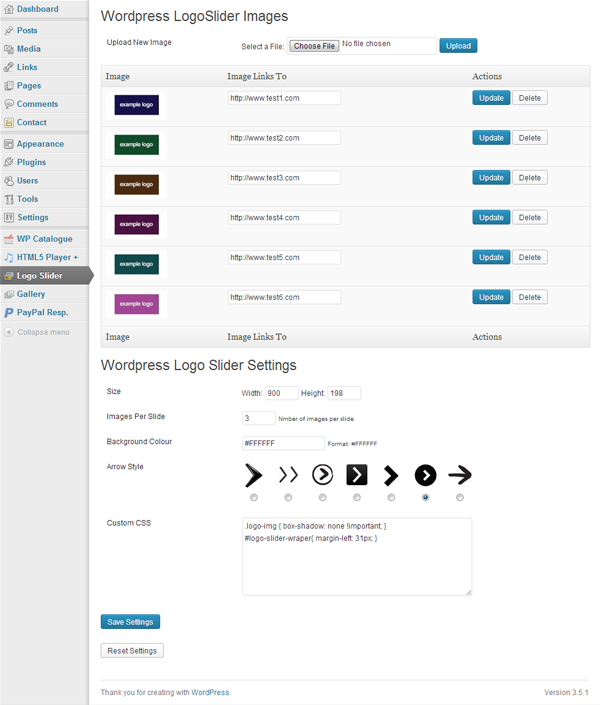
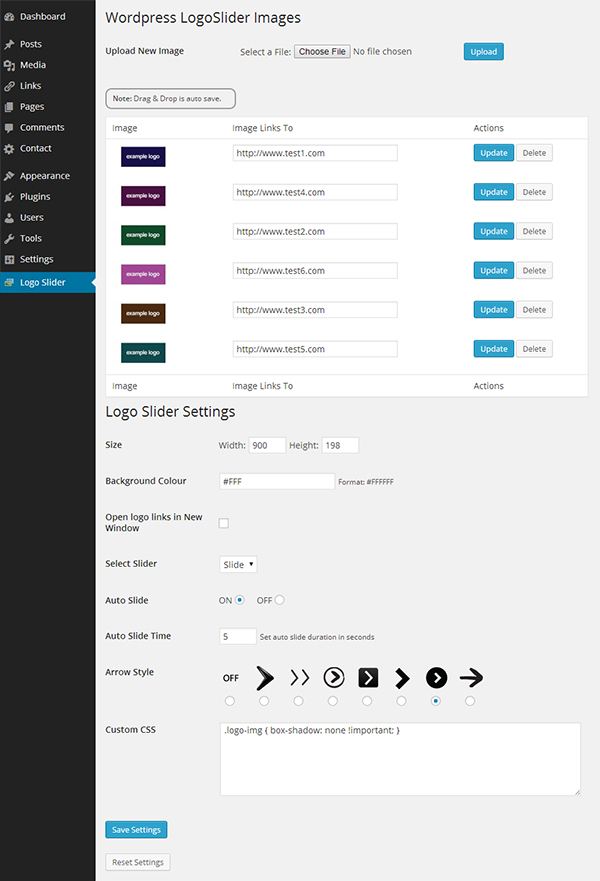
Updating screenshot-2.jpg
git-svn-id: https://plugins.svn.wordpress.org/logo-slider/trunk@870401 b8457f37-d9ea-0310-8a92-e5e31aec5664

diff --git a/logo-slider.php b/logo-slider.php
@@ -271,7 +271,7 @@ function wp_logo_images_admin() { ?>
 	</table><br />
 	
 	<p style="border:2px solid #999; border-radius: 10px; font-size: 12px; padding: 6px 10px; width: 24%;">
-    	<strong>Note: </strong>Drag &amp; Drop is auto save.
+    	<strong>Note: </strong>Drag &amp; Drop to reorder slides.
   	</p>
     
 	<?php if(!empty($wp_logo_slider_images)) : ?>
